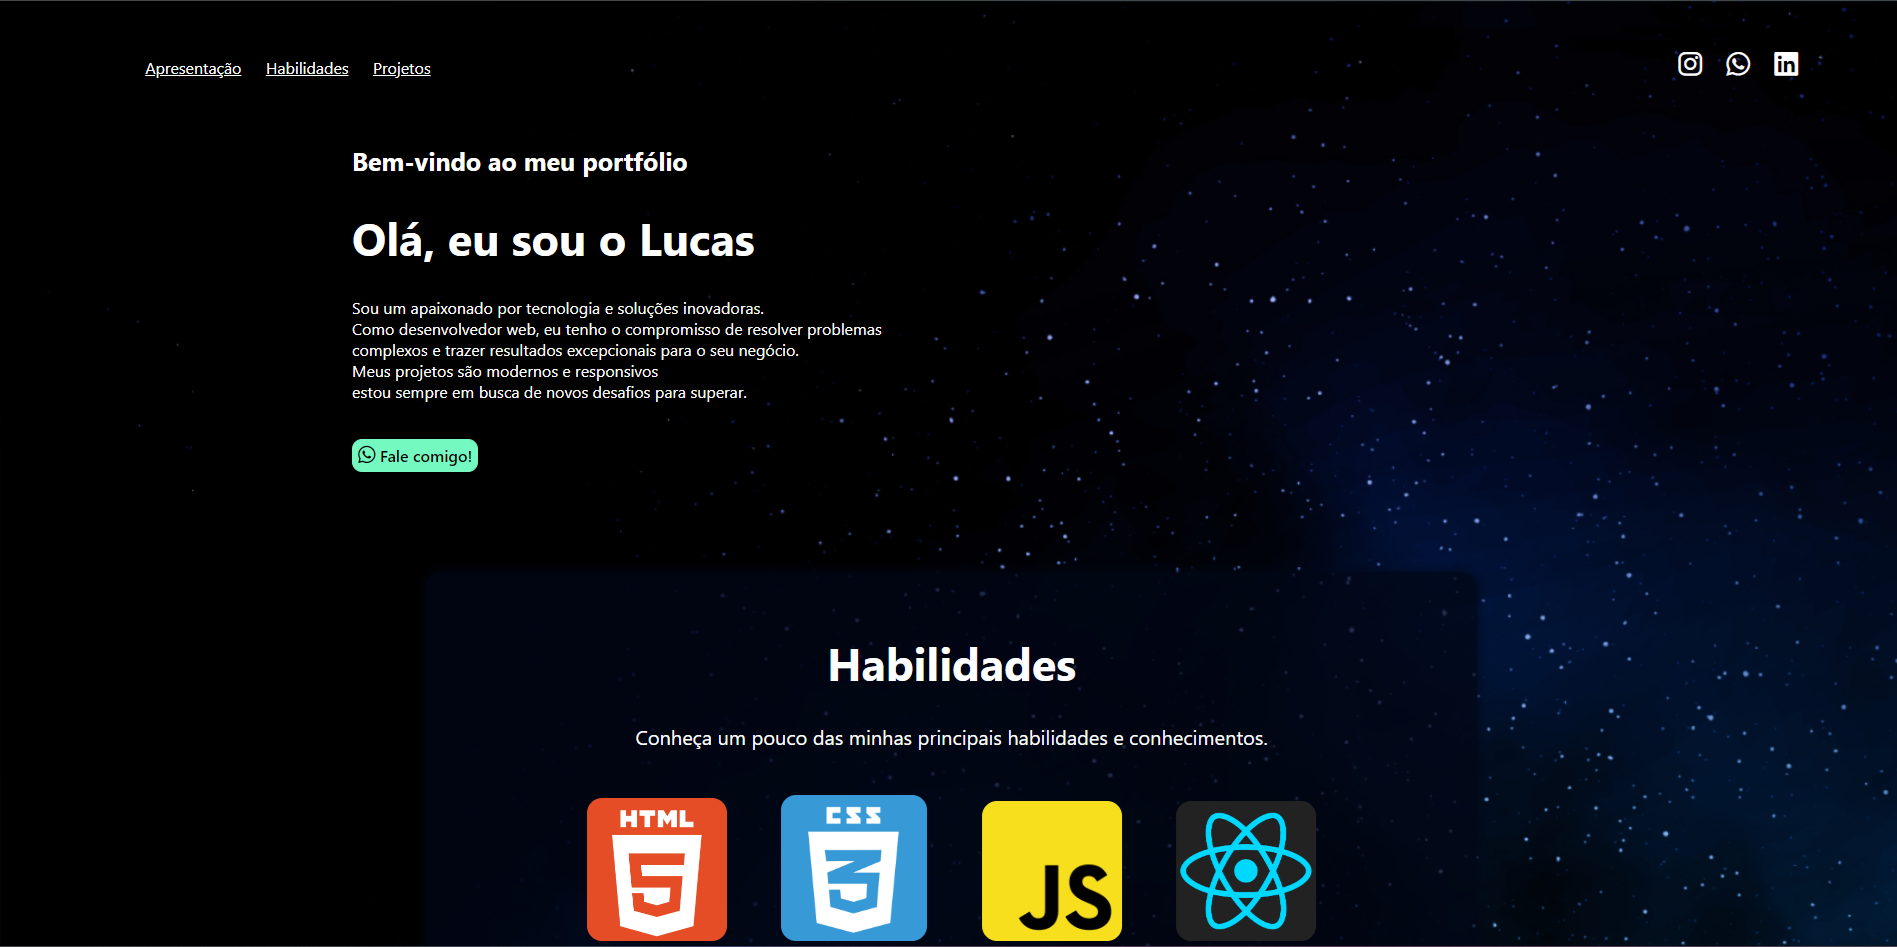
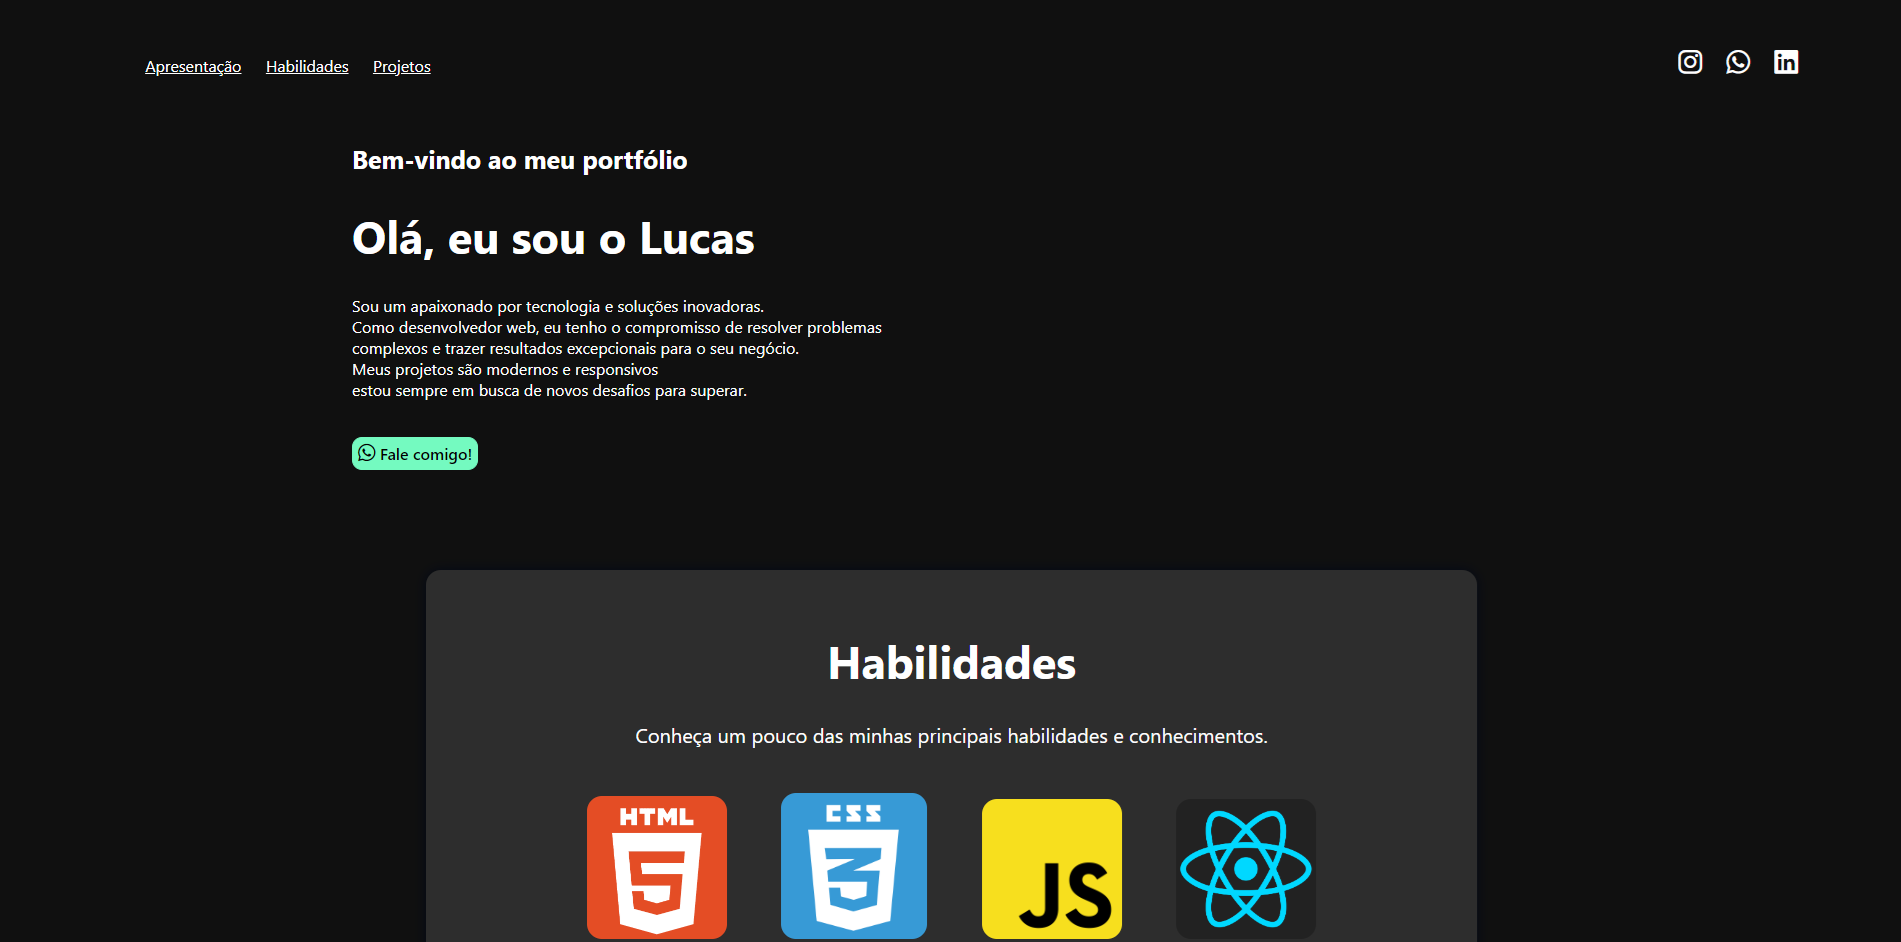
mudança de estilo

diff --git a/style.css b/style.css
@@ -6,7 +6,7 @@
 }
 
 body {
-    background-image: url('image/background.svg');
+    background-color: #101010;
     background-repeat: no-repeat;
     background-size: cover;
     margin-left: 5%;
@@ -90,7 +90,7 @@ div#sessao-apresentacao a#btn-fale-conosco:hover i {
 div#sessao-habilidades {
     margin: auto;
     padding: 30px 55px 30px 55px;
-    background-color: #010716c5;
+    background-color: #353535c5;
     text-align: center;
     width: 55%;
     border-radius: 15px;
@@ -127,13 +127,14 @@ div#sessao-projetos img {
     height: 300px;
     border-radius: 20px;
     margin-right: 50px;
+    margin-bottom: 10px;
 }
 
 div.info-container {
     display: flex;
     flex-direction: column;
     justify-content: space-around;
-    background-color: #010716c5;
+    background-color: #353535c5;
     width: 500px;
     height: 300px;
     border-radius: 20px;
